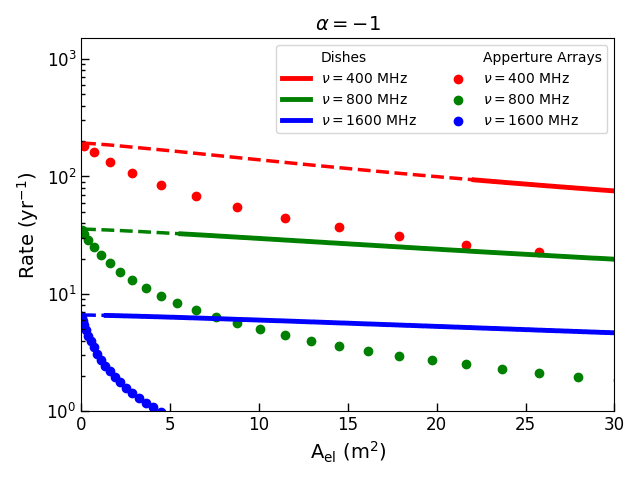
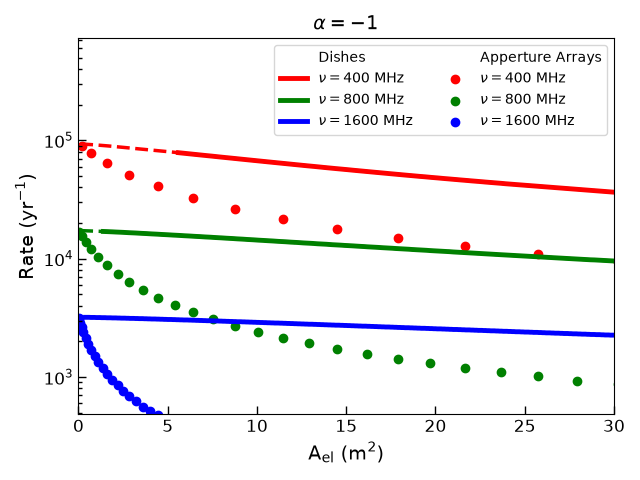
Correct annual FRB rates, affordable counts, and dish cutoffs

diff --git a/tests/test_rate_budget_correctness.py b/tests/test_rate_budget_correctness.py
@@ -1,0 +1,105 @@
+"""Independent unit and budget checks for the original plotting grid."""
+
+import ast
+import json
+from pathlib import Path
+
+import numpy as np
+import pytest
+import scipy.constants as const
+
+ROOT = Path(__file__).resolve().parents[1]
+
+
+def load_model():
+    notebook = json.loads((ROOT / "code/cost_scaling.ipynb").read_text())
+    namespace = {"np": np, "const": const}
+    for index in (2, 3, 5, 6, 7):
+        module = ast.parse("".join(notebook["cells"][index]["source"]))
+        for node in module.body:
+            if isinstance(node, ast.FunctionDef):
+                node.decorator_list = []
+        exec(compile(module, "cost-model", "exec"), namespace)
+    return namespace, notebook
+
+
+@pytest.fixture(scope="module")
+def model():
+    return load_model()[0]
+
+
+@pytest.mark.parametrize("slope", [-1, -1.5, -2])
+def test_rates_match_si_fluence_and_annual_sky_rate(model, slope):
+    # Derive the fluence in SI units, independently of the notebook's
+    # combined MHz, millisecond, and Jy powers. 2 Jy ms = 2e-29 J/m^2/Hz.
+    area = np.array([0.5, 10.0, 29.9])
+    frequency_hz = np.array([400e6, 800e6, 1600e6])
+    count = np.array([1000, 600, 300])
+    duration_s = 0.002
+    bandwidth_hz = 0.66 * frequency_hz
+    fluence = 10 * 1.380649e-23 * 50 * duration_s / (
+        2 * count * area * np.sqrt(bandwidth_hz * duration_s)
+    )
+    sky_fraction = (299792458 / frequency_hz)**2 / (4 * np.pi * area)
+    expected = 1700 * 365.25 * (fluence / 2e-29)**slope * sky_fraction
+    actual = model["frbrate"](area, frequency_hz / 1e6, count, slope)
+    np.testing.assert_allclose(actual, expected, rtol=2e-14)
+
+
+@pytest.mark.parametrize("kind", ["dish", "aperture"])
+def test_every_plotted_count_is_largest_affordable_integer(model, kind):
+    if kind == "dish":
+        collector = 0.029 * model["Ael"]**1.25
+        counts = model["n"]
+    else:
+        collector = 0.067 * model["m"]
+        counts = model["n_array"]
+    for frequency, n in zip([400, 800, 1600], counts):
+        def price(number):
+            return number * (
+                collector + (0.0023 + 0.00023 * np.log2(number)) * 0.66 * frequency
+            )
+        np.testing.assert_array_equal(n, np.floor(n))
+        assert np.all(price(n) <= 2000)
+        assert np.all(price(n + 1) > 2000)
+
+
+@pytest.mark.parametrize("name,collector,size", [
+    ("findn", 0.029 * 10**1.25, 10),
+    ("findn_array", 0.067 * 100, 100),
+])
+def test_budget_boundaries_include_zero_and_exact_cost(model, name, collector, size):
+    def price(n):
+        return n * (collector + (0.0023 + 0.00023 * np.log2(n)) * 0.66 * 400)
+    find_count = model[name]
+    assert find_count(0, 400, size) == 0
+    assert find_count(price(1) * 0.999, 400, size) == 0
+    assert find_count(price(10), 400, size) == 10
+    # The previous tolerance returned an over-budget design at this boundary.
+    assert find_count(price(10) * (1 - 1e-5), 400, size) == 9
+    assert find_count(price(10) * (1 + 1e-5), 400, size) == 10
+
+
+def test_physical_cutoff_uses_effective_area_in_all_three_plots(model):
+    wavelength = 299792458 / np.array([400e6, 800e6, 1600e6])
+    diameter = 2 * np.sqrt(model["dish_min_area"] / (0.5 * np.pi))
+    np.testing.assert_allclose(diameter / wavelength, 5, rtol=1e-14)
+    _, notebook = load_model()
+    # Execute the actual plot-index assignments, including exact thresholds.
+    areas = np.sort(np.concatenate([
+        model["dish_min_area"] * (1 - 1e-6),
+        model["dish_min_area"],
+        model["dish_min_area"] * (1 + 1e-6),
+    ]))
+    for index in (9, 10, 11):
+        module = ast.parse("".join(notebook["cells"][index]["source"]))
+        module.body = [node for node in module.body if isinstance(node, ast.Assign)
+                       and any(isinstance(t, ast.Name) and t.id in ("i0", "i1", "i2")
+                               for t in node.targets)]
+        namespace = dict(model, Ael=areas)
+        exec(compile(module, "plot-cutoffs", "exec"), namespace)
+        assert len(module.body) == 3
+        for frequency_index in range(3):
+            expected = np.flatnonzero(2 * np.sqrt(areas / (0.5 * np.pi))
+                                     >= 5 * wavelength[frequency_index])
+            np.testing.assert_array_equal(namespace[f"i{frequency_index}"][0], expected)

diff --git a/tests/test_notebook_correctness.py b/tests/test_notebook_correctness.py
@@ -4,6 +4,7 @@ from pathlib import Path
 
 import numpy as np
 import pytest
+import scipy.constants as const
 
 ROOT = Path(__file__).resolve().parents[1]
 
@@ -21,7 +22,7 @@ def execute(source, namespace, functions_only=False):
 
 def test_aperture_array_uses_its_own_cost_model():
     notebook = cells("cost_scaling.ipynb")
-    namespace = {"np": np}
+    namespace = {"np": np, "const": const}
     for index in (2, 5):
         execute("".join(notebook[index]["source"]), namespace)
     execute("".join(notebook[6]["source"]), namespace, functions_only=True)
